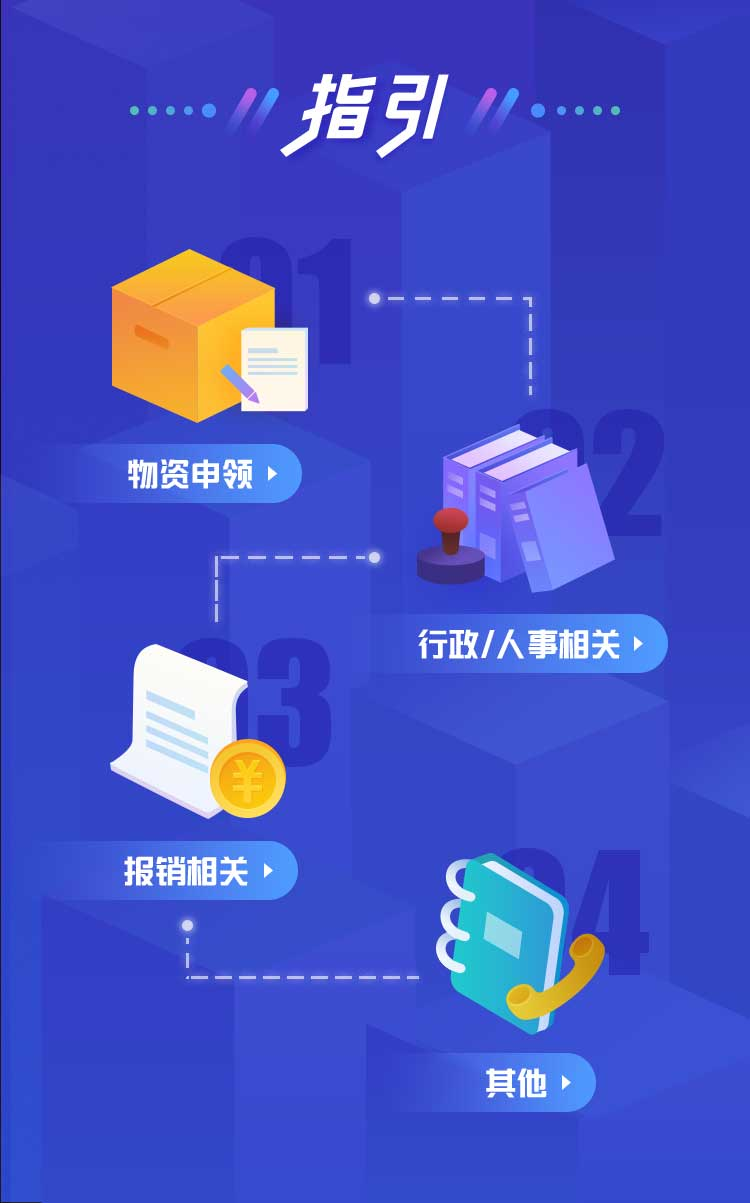
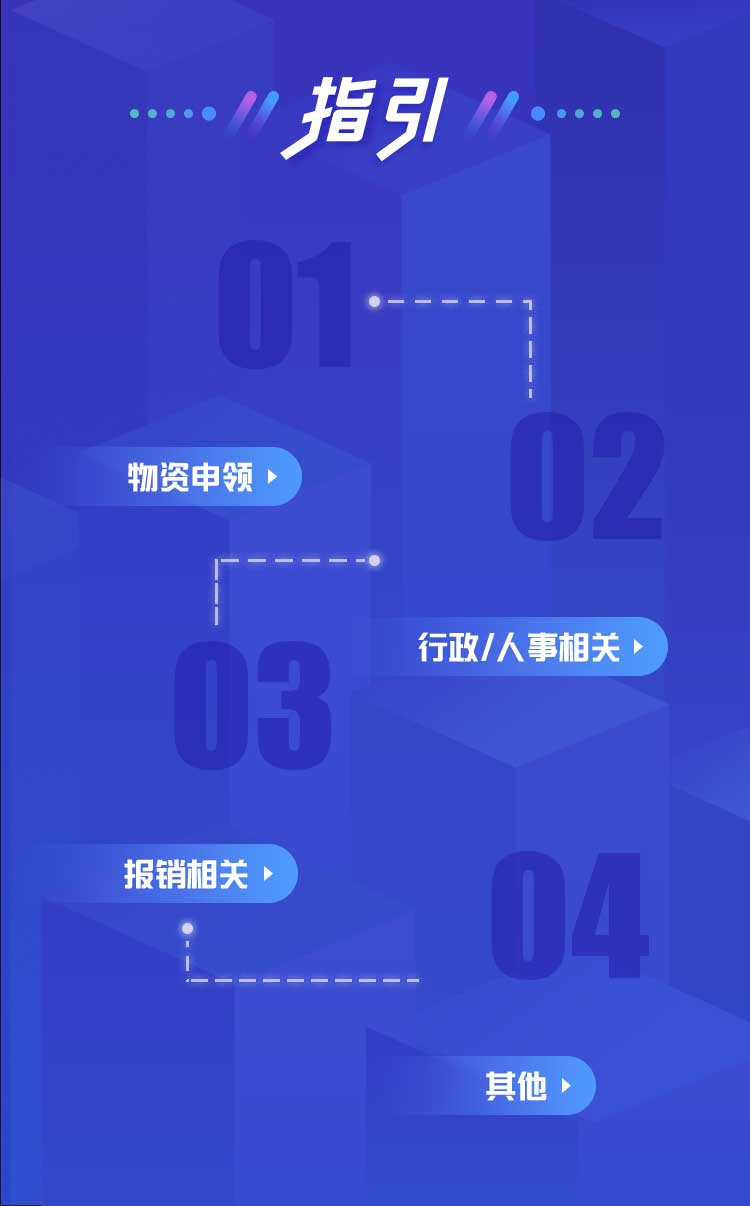
动画效果

diff --git a/src/components/lead.vue b/src/components/lead.vue
@@ -1,21 +1,42 @@
 <template>
   <div class="lead animate" ref="section3">
-    <span class="first" @click="changePage(4)"></span>
-    <span class="second" @click="changePage(5)"></span>
-    <span class="third" @click="changePage(6)"></span>
-    <span class="forth" @click="changePage(7)"></span>
+    <span :class=comClass(1) @click="changePage(4)"></span>
+    <span :class=comClass(2) @click="changePage(5)"></span>
+    <span :class=comClass(3) @click="changePage(6)"></span>
+    <span :class=comClass(4) @click="changePage(7)"></span>
   </div>
 </template>
 
 <script>
 export default {
   name: "lead",
+  props: ["currentPage"],
+  watch: {
+    currentPage(newV, oldv) {
+      this.current = newV;
+      console.log(newV, oldv);
+    }
+  },
   data() {
-    return {};
+    return {
+      current: 1
+    };
   },
   methods: {
     changePage(index) {
       this.$emit("changePage", index);
+    },
+    comClass(index) {
+      return {
+        first: index === 1,
+        second: index === 2,
+        third: index === 3,
+        forth: index === 4,
+        big: this.current === 3,
+        big1: this.current === 3 && index === 2,
+        big2: this.current === 3 && index === 3,
+        big3: this.current === 3 && index === 4
+      };
     }
   }
 };
@@ -31,28 +52,80 @@ export default {
     position: absolute;
   }
   .first {
-    width: 235 * $px;
-    height: 255 * $px;
+    background: url("../assets/lead1.png") no-repeat;
+    background-size: 100%;
+    width: 196 * $px;
+    height: 174 * $px;
     top: 248 * $px;
     left: 78 * $px;
   }
   .second {
-    width: 270 * $px;
-    height: 250 * $px;
+    background: url("../assets/lead2.png") no-repeat;
+    background-size: 100%;
+    width: 200 * $px;
+    height: 171 * $px;
     top: 425 * $px;
     right: 80 * $px;
   }
   .third {
-    width: 220 * $px;
-    height: 255 * $px;
+    background: url("../assets/lead3.png") no-repeat;
+    background-size: 100%;
+    width: 179 * $px;
+    height: 175 * $px;
     top: 645 * $px;
     left: 78 * $px;
   }
   .forth {
-    width: 204 * $px;
-    height: 260 * $px;
+    background: url("../assets/lead4.png") no-repeat;
+    background-size: 100%;
+    width: 170 * $px;
+    height: 182 * $px;
     top: 853 * $px;
     right: 146 * $px;
+  }
+}
+
+.big {
+  -webkit-animation: changeBiger 1s linear backwards;
+  -moz-animation: changeBiger 1s linear backwards;
+  animation: changeBiger 1s linear backwards;
+}
+
+.big1 {
+  animation-delay: 1s;
+}
+
+.big2 {
+  animation-delay: 2s;
+}
+
+.big3 {
+  animation-delay: 3s;
+}
+
+@-moz-keyframes changeBiger {
+  0% {
+    transform: scale(0.8);
+  }
+  100% {
+    transform: scale(1.1);
+  }
+}
+@-webkit-keyframes changeBiger {
+  0% {
+    transform: scale(1);
+  }
+  100% {
+    transform: scale(1.1);
+  }
+}
+
+@keyframes changeBiger {
+  0% {
+    transform: scale(1);
+  }
+  100% {
+    transform: scale(1.1);
   }
 }
 </style>

diff --git a/src/views/fullpage.vue b/src/views/fullpage.vue
@@ -1,13 +1,13 @@
 <template>
     <div>
         <page :currentPage="currentPage">
+          <read @changePage="changePage" :currentPage="currentPage"></read>
+        </page>
+        <page :currentPage="currentPage">
           <introduce></introduce>
         </page>
         <page :currentPage="currentPage">
-          <read @changePage="changePage"></read>
-        </page>
-        <page :currentPage="currentPage">
-          <lead @changePage="changePage"></lead>
+          <lead @changePage="changePage" :currentPage="currentPage"></lead>
         </page>
         <page :currentPage="currentPage">
           <good @changePage="changePage"></good>
@@ -58,6 +58,13 @@ export default {
       currentPage: 1,
       options: [
         {
+          background: "url(" + read + ") no-repeat center center fixed",
+          color: "#fff",
+          isCenter: true,
+          afterEnter: afterEnterAnimate,
+          beforeLeave: beforeLeaveAnimate
+        },
+        {
           // the color of background
           background: "url(" + intro + ") no-repeat center center fixed",
           // the color of text
@@ -67,13 +74,6 @@ export default {
           // the function before page show
           afterEnter: afterEnterAnimate,
           // the function after page show
-          beforeLeave: beforeLeaveAnimate
-        },
-        {
-          background: "url(" + read + ") no-repeat center center fixed",
-          color: "#fff",
-          isCenter: true,
-          afterEnter: afterEnterAnimate,
           beforeLeave: beforeLeaveAnimate
         },
         {

diff --git a/src/components/read.vue b/src/components/read.vue
@@ -1,18 +1,33 @@
 <template>
     <div class="read animate" ref="section2">
-      <span class="toRead" @click="changePage(3)"></span>
+      <span class="toRead bigR" @click="changePage(3)"></span>
     </div>
 </template>
 
 <script>
 export default {
   name: "read",
+  props: ["currentPage"],
+  watch: {
+    currentPage(newV, oldv) {
+      this.current = newV;
+      console.log(newV, oldv);
+    }
+  },
   data() {
-    return {};
+    return {
+      current: 0
+    };
   },
   methods: {
     changePage(index) {
       this.$emit("changePage", index);
+    },
+    comClass() {
+      return {
+        toRead: true,
+        big: this.current === 1
+      };
     }
   }
 };
@@ -26,12 +41,45 @@ export default {
   span {
     display: inline-block;
     position: absolute;
+    background: url("../assets/toread.png") no-repeat;
+    background-size: 100%;
   }
   .toRead {
     width: 512 * $px;
     height: 94 * $px;
     top: 912 * $px;
     left: 120 * $px;
+  }
+}
+.bigR {
+  -webkit-animation: changeBiger 1s linear 2;
+  -moz-animation: changeBiger 1s linear 2;
+  animation: changeBiger 1s linear 2;
+}
+
+@-moz-keyframes changeBiger {
+  0% {
+    transform: scale(0.8);
+  }
+  100% {
+    transform: scale(1.1);
+  }
+}
+@-webkit-keyframes changeBiger {
+  0% {
+    transform: scale(1);
+  }
+  100% {
+    transform: scale(1.1);
+  }
+}
+
+@keyframes changeBiger {
+  0% {
+    transform: scale(1);
+  }
+  100% {
+    transform: scale(1.1);
   }
 }
 </style>

diff --git a/public/index.html b/public/index.html
@@ -7,7 +7,6 @@
   <meta name="viewport" content="width=device-width, initial-scale=1.0, maximum-scale=1.0, user-scalable=0">
   <link rel="icon" href="<%= BASE_URL %>favicon.ico">
   <title>newbee</title>
-  <script type="text/javascript" src="https://vpn.sina.com/res/my_m2/js/app-interface.js"></script>
 </head>
 
 <body>
